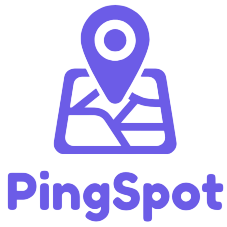
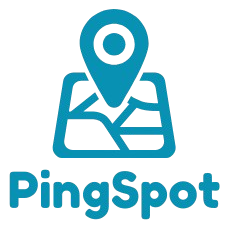
Update pingspot primary color

diff --git a/src/app/layout.tsx b/src/app/layout.tsx
@@ -1,5 +1,5 @@
 import "./globals.css";
-import { Plus_Jakarta_Sans } from "next/font/google";
+import { Manrope } from "next/font/google";
 import { NextIntlClientProvider } from 'next-intl';
 import { getLocale, getMessages } from 'next-intl/server';
 import { ToastContainer } from "react-toastify";
@@ -11,12 +11,15 @@ import ReportFilterModalProvider from "@/provider/ReportFilterProvider";
 
 export const metadata = {
   title: 'PingSpot',
+  icons: {
+    icon: '/images/pingspot-semi.png',
+  },
 }
 
-const plusJakartaSans = Plus_Jakarta_Sans({
+const manrope = Manrope({
   subsets: ["latin"],
   display: "swap",
-  variable: "--font-plus-jakarta",
+  variable: "--font-body",
   fallback: ["system-ui", "Segoe UI", "Helvetica Neue", "Arial", "sans-serif"],
 });
 
@@ -26,7 +29,10 @@ const RootLayout = async ({ children }: { children: React.ReactNode }) => {
 
   return (
     <html lang={locale}>
-      <body className={`${plusJakartaSans.variable} antialiased`} style={{ fontFamily: "var(--font-sf)" }}>
+      <body
+        className={`${manrope.variable} antialiased`}
+        style={{ fontFamily: "var(--font-body)" }}
+      >
         <NextIntlClientProvider locale={locale} messages={messages}>
           <ReactQueryClientProvider>
             <ToastContainer />

diff --git a/src/app/globals.css b/src/app/globals.css
@@ -1,20 +1,21 @@
 @import "tailwindcss";
 
 @theme {
-    --color-primary: #6C5CE7;
+    --color-primary: #0891B2;
+    --color-primary-hover: #0E7490;
+
     --color-surface: #2D3436;
     --color-background: #F1F2F6;
     --color-muted: #D1D8DB;
 
     --color-success: #15803d;
     --color-success-dark: #008B74;
-    --color-danger: #b91c1c;        
+    --color-danger: #b91c1c;
     --color-danger-dark: #D63031;
-    --color-primary-hover: #5B4BC4; 
 
-    --color-secondary: #818CF8;        
-    --color-secondary-dark: #4F46E5;
-    --color-secondary-hover: #6366F1;
+    --color-secondary: #334155;
+    --color-secondary-dark: #0F172A;
+    --color-secondary-hover: #1E293B;
 }
 
 html, body {
